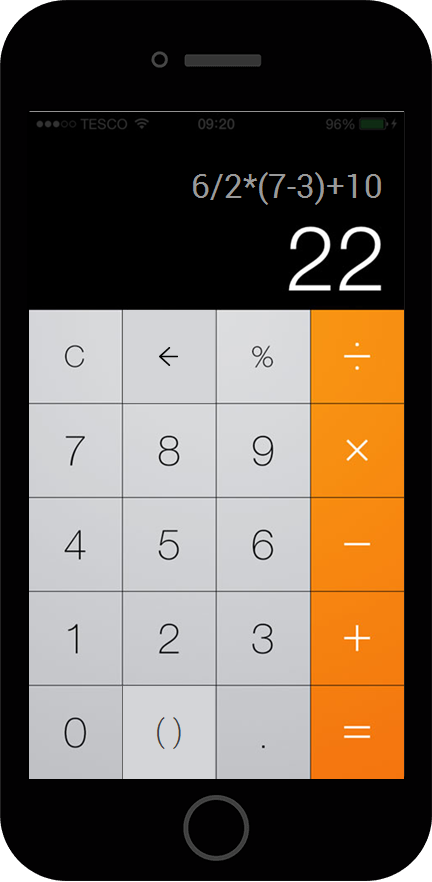
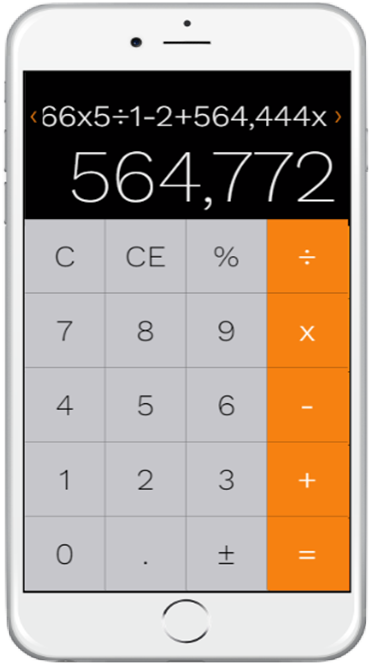
Add new proto and README

diff --git a/README.md b/README.md
@@ -1,0 +1,2 @@
+## IMPROVED CLONE IPHONE CALCULATOR
+
